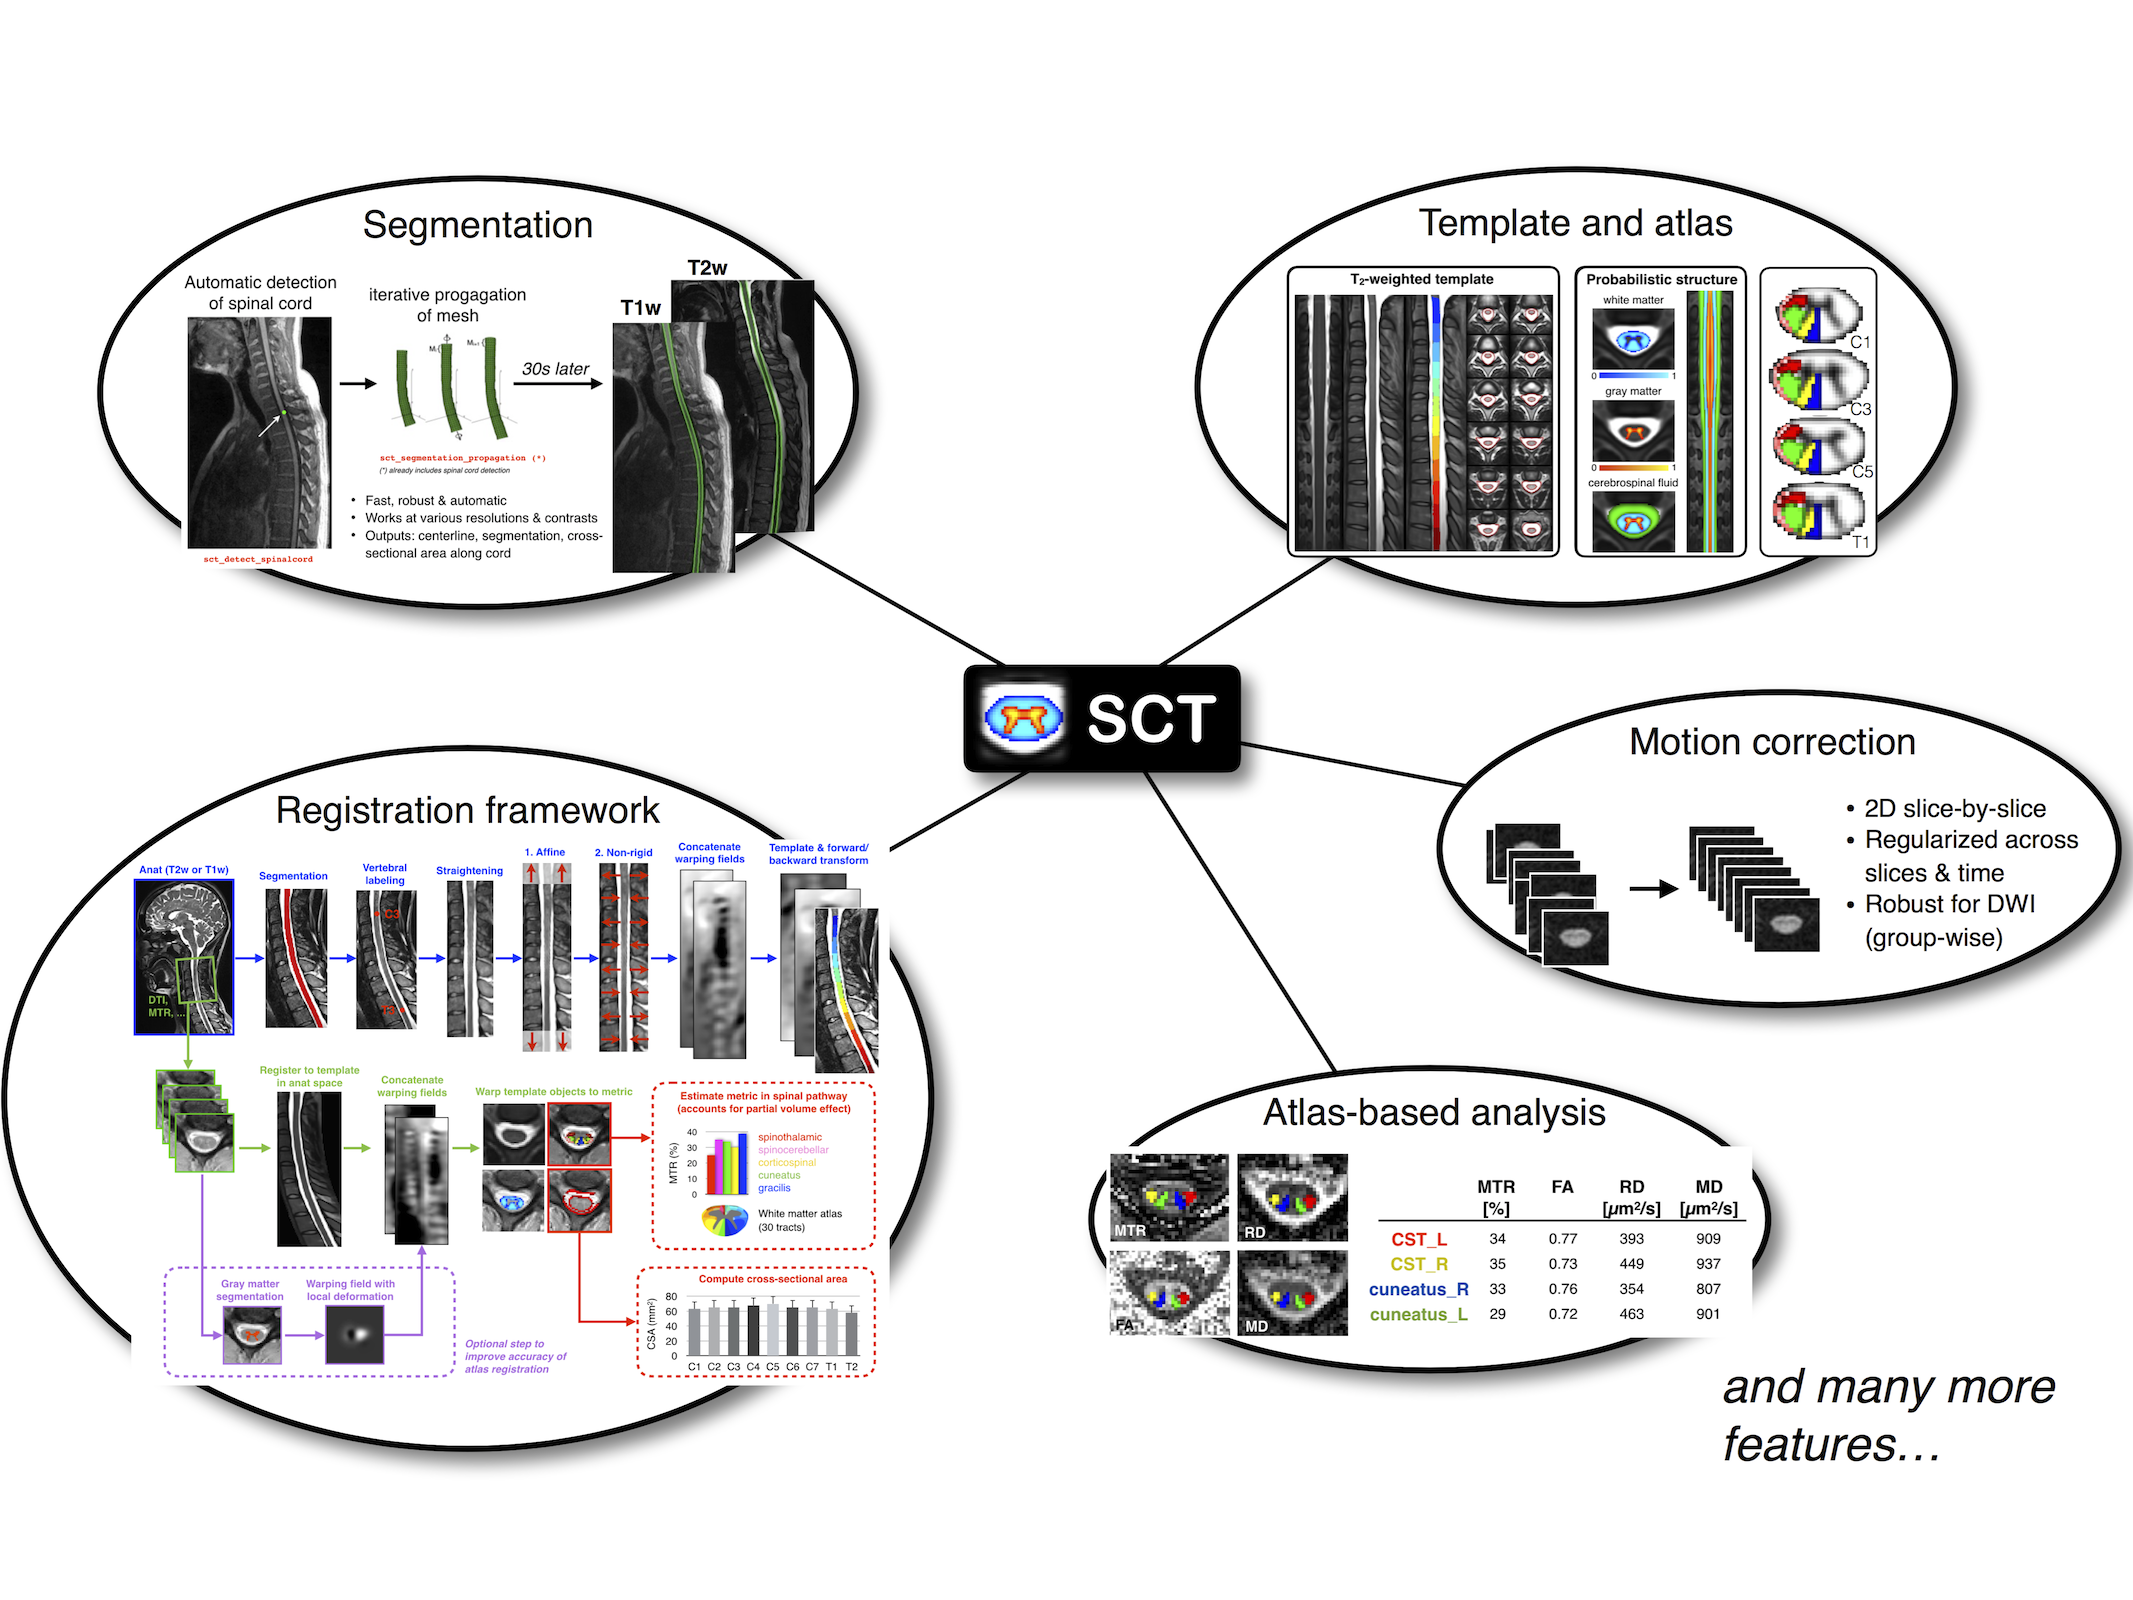
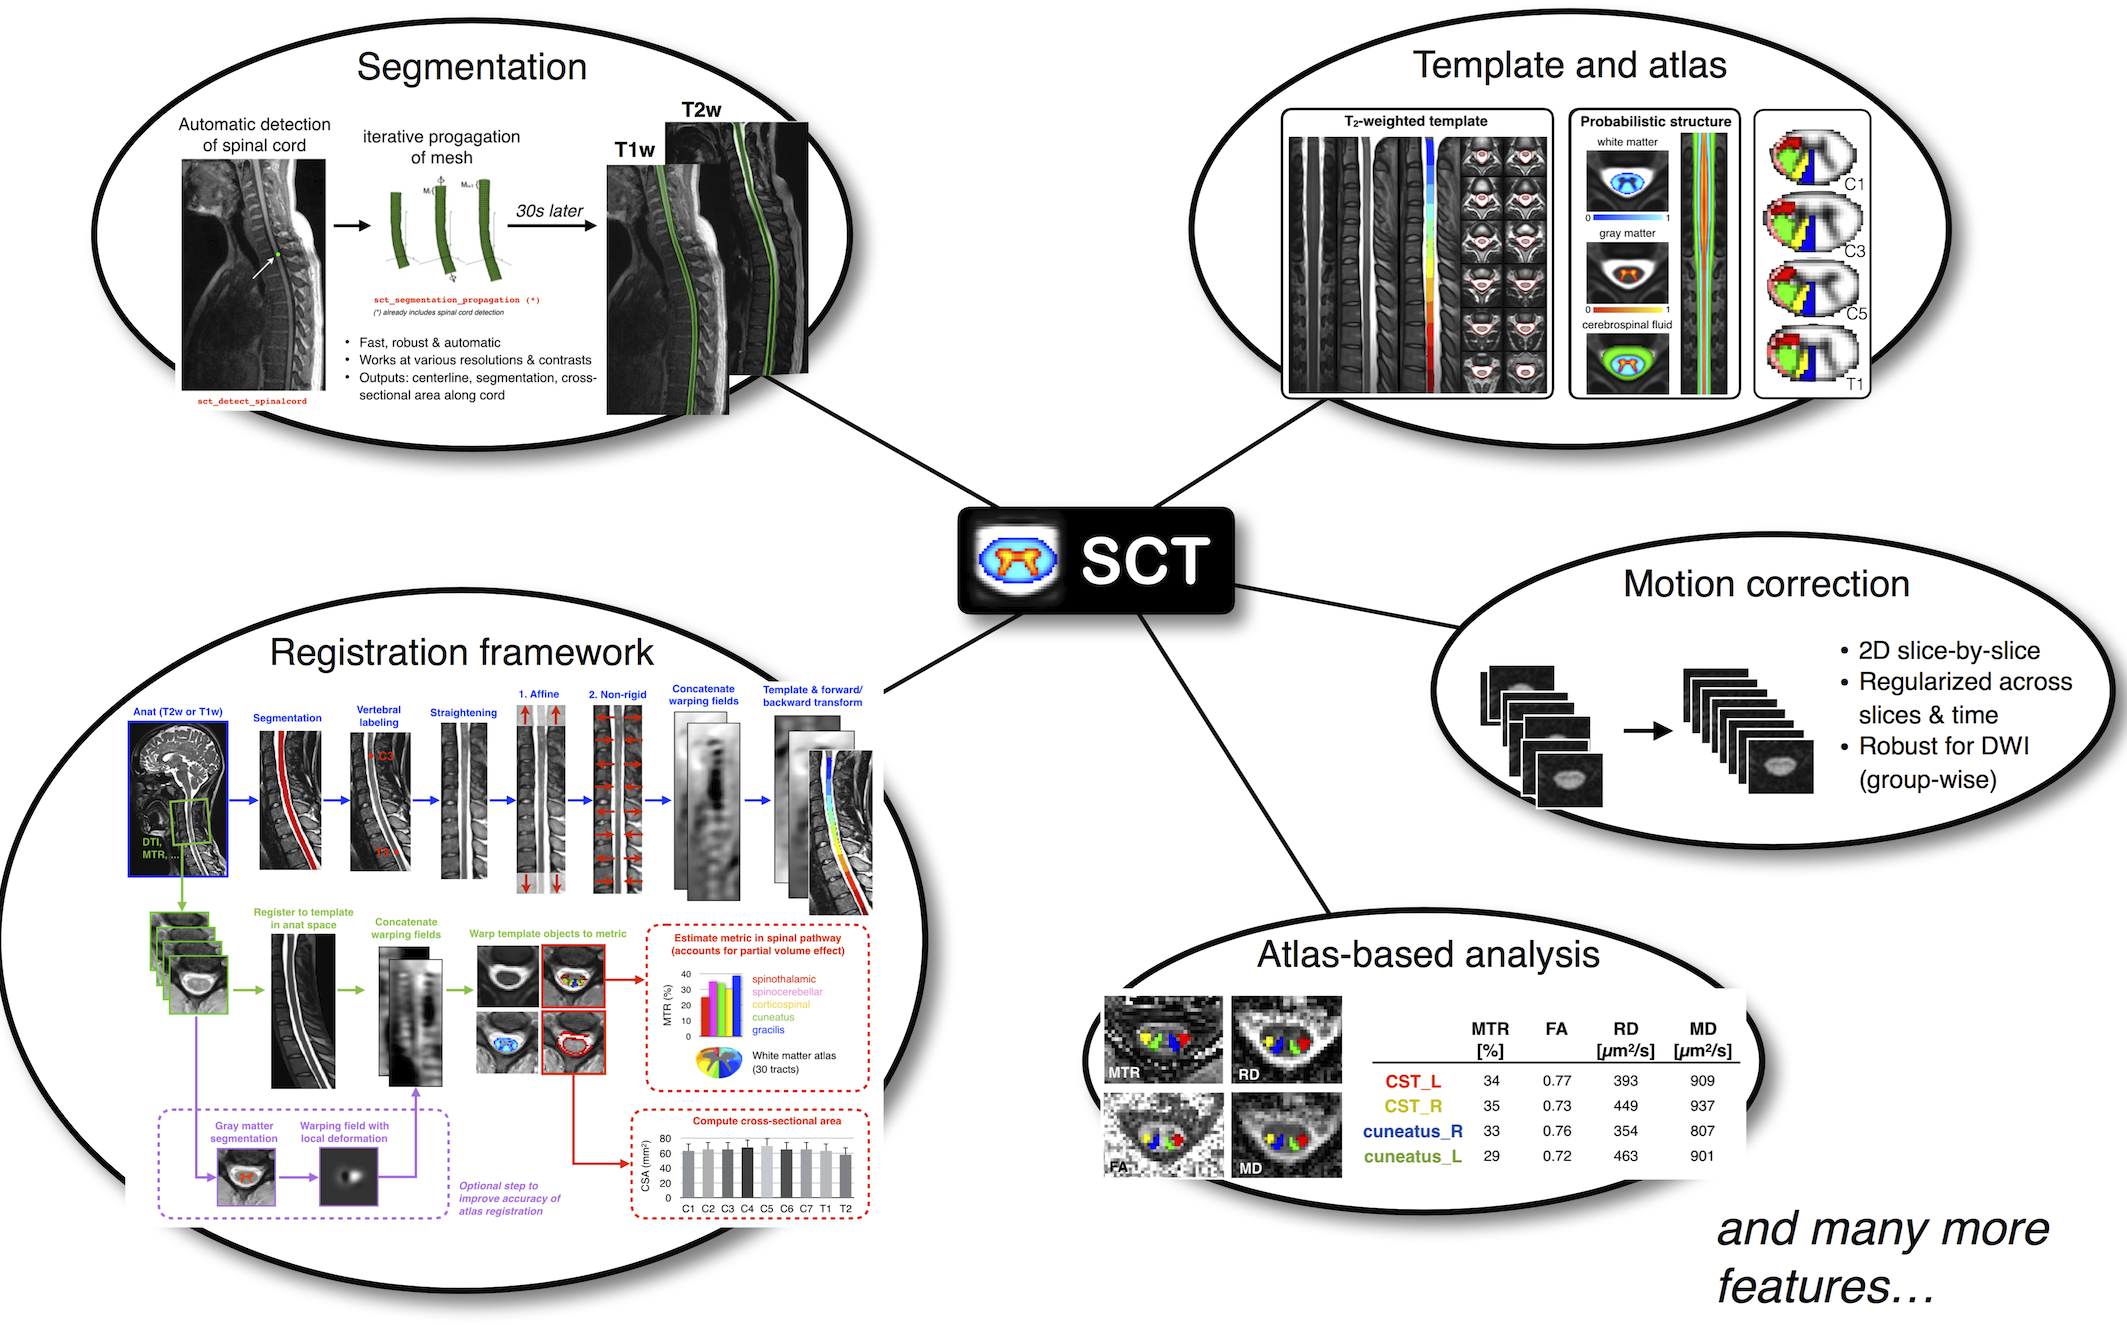
Cropped overview.png; added to RTD

diff --git a/documentation/sphinx/source/overview/overview.rst b/documentation/sphinx/source/overview/overview.rst
@@ -1,7 +1,8 @@
 Overview
 ########
 
-[SLIDE ANIMATION GOES HERE]
+.. image:: ../../../imgs/overview.png
+  :alt: Alternative text
 
 SCT tools process MRI data (`NIfTI <https://nifti.nimh.nih.gov/>`_
 files) and can do fully automatic tasks such as:
